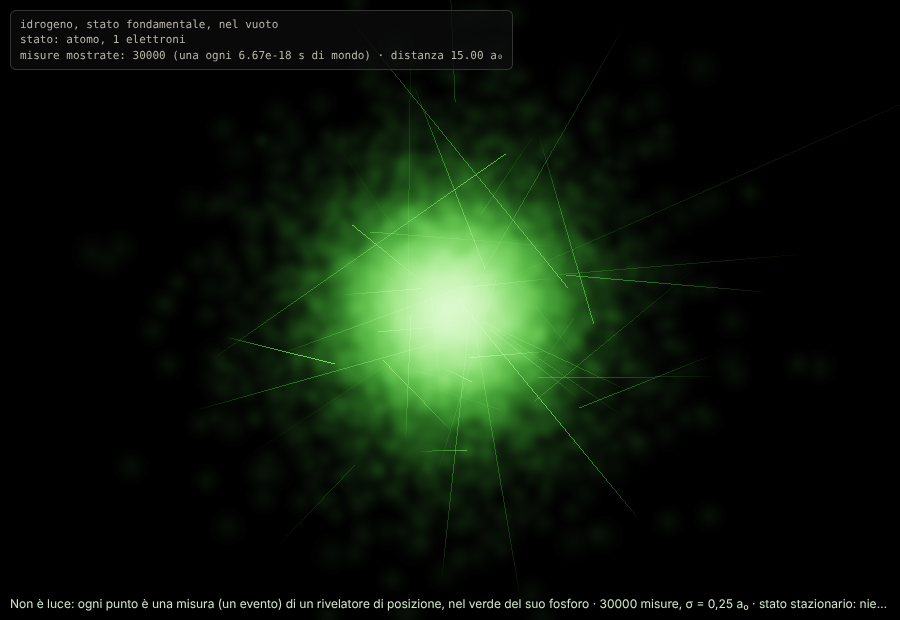
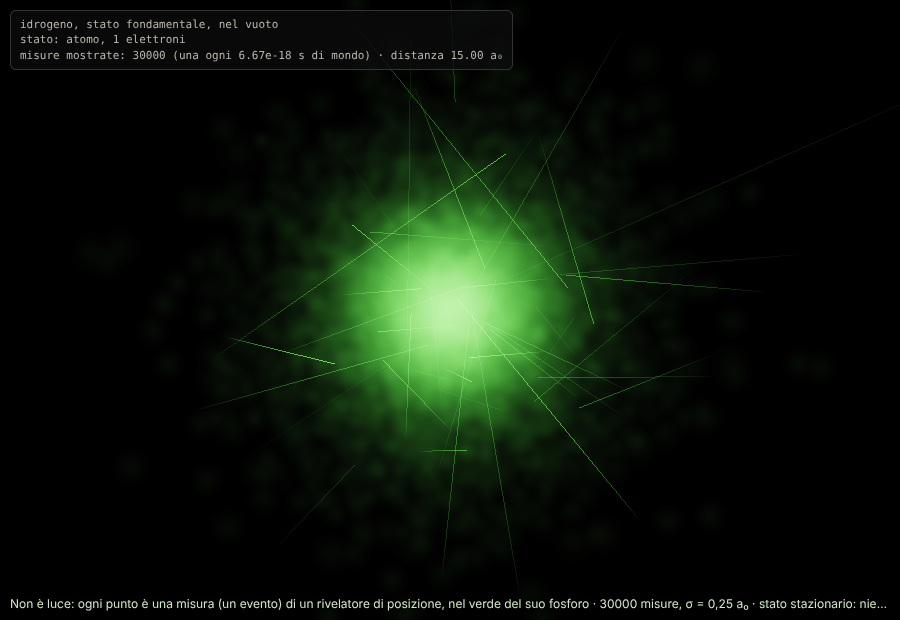
Istantanea dei lavori in corso
Claude-Session: https://claude.ai/code/session_01HEgRdxXhYcDZmLQ42e39by

Changed region(s): [[0.3422, 0.2452, 0.6533, 0.7355]]

diff --git a/src/tre/quanti.js b/src/tre/quanti.js
@@ -153,9 +153,9 @@ export function creaQuanti(N, opzioni = {}) {
       const usa = (p, unita) => { gl.useProgram(p.p); gl.uniformMatrix4fv(p.u.u_proj, false, S.proj); gl.uniformMatrix3fv(p.u.u_vista, false, S.vista); gl.uniformMatrix3fv(p.u.u_quadro, false, u9); gl.uniform3f(p.u.u_centro, _v[0] / unita, _v[1] / unita, _v[2] / unita); };
       // gli elettroni (in a₀)
       if (stato.misure > 0) {
-        usa(prg, AU.a0); const rPx = Math.max(6, ((info ? Math.min(info.estensione, 40) : 4) * 0.35 * AU.a0 / d) * S.fuoco), area = Math.PI * rPx * rPx;
+        usa(prg, AU.a0); const rPx = Math.max(6, ((info ? Math.min(info.estensione, 40) : 4) * 0.35 * AU.a0 / d) * S.fuoco), area = Math.min(Math.PI * rPx * rPx, S.W * S.H); // (la luce di tutte le misure non supera quella che riempie lo schermo)
         gl.uniform1f(prg.u.u_k, stato.kNow); gl.uniform1f(prg.u.u_kmin, kmin); gl.uniform1f(prg.u.u_esposizione, esposizione); gl.uniform1f(prg.u.u_fuoco, S.fuoco); gl.uniform1f(prg.u.u_massimo, 96);
-        gl.uniform1f(prg.u.u_luce, (0.6 * area) / Math.max(30, Math.min(stato.misure, esposizione * 3))); gl.uniform1f(prg.u.u_passato, 1); gl.uniform1f(prg.u.u_sigE, Math.max(O.sigma, 0.02)); gl.uniform4f(prg.u.u_sig, 0.5, 0.06, 0, 0);
+        gl.uniform1f(prg.u.u_luce, (0.35 * area) / Math.max(30, Math.min(stato.misure, esposizione * 3))); gl.uniform1f(prg.u.u_passato, 1); gl.uniform1f(prg.u.u_sigE, Math.max(O.sigma, 0.02)); gl.uniform4f(prg.u.u_sig, 0.5, 0.06, 0, 0);
         gl.bindVertexArray(vao); gl.drawArrays(gl.POINTS, 0, K);
         if (nScie) { usa(prgS, AU.a0); gl.bindVertexArray(vaoS); gl.drawArrays(gl.LINES, 0, 2 * nScie); }
       }

diff --git a/research_notes/Scala quantistica/note.md b/research_notes/Scala quantistica/note.md
@@ -1,0 +1,56 @@
+# La scala quantistica: che cosa si sa di «com'è», e come la si rende visibile dalle misure
+
+Marche: **[V]** letto ora (novembre 2026), **[R]** ricordato (da controllare se serve un numero fine). Per ognuna: che
+cosa ne prende il modello (`src/camera/quanti.js`, `src/tre/quanti.js`).
+
+## Che cosa vuol dire «vedere» sotto l'atomo
+- **Stodolna et al. 2013**, *Hydrogen Atoms under Magnification: Direct Observation of the Nodal Structure of Stark
+  States*, PRL 110, 213001 [V] (copia accettata dell'autore: physics.purdue.edu/~robichf/papers/prl110.213001.pdf).
+  Fascio di idrogeno da fotodissociazione di H₂S; eccitazione a due fotoni (243 nm) agli stati n = 2, ionizzazione
+  con un secondo laser (365–367 nm, 8 ns) in un campo di 808 V/cm; gli elettroni lenti finiscono su piastre a
+  microcanali + schermo al fosforo + CCD, con una lente elettrostatica che ingrandisce l'immagine di circa 10×. Si vede
+  un numero di frange scure uguale al numero quantico parabolico n₁: la struttura dei nodi della funzione d'onda.
+  L'immagine è un **accumulo di elettroni singoli**, uno per atomo.
+  → Il modello rende la scala così: ogni punto è un evento di misura (regola 3), tirato da |ψ|² (regola di Born),
+  su un atomo preparato uguale; la nuvola emerge dall'accumulo; il colore è il verde del fosforo dello schermo
+  (luce dello strumento, non dell'atomo). Riga a schermo: «Non è luce…».
+- **Gross, Mohn, Moll, Liljeroth & Meyer 2009**, Science 325, 1110 (pentacene con punta a CO, AFM); **Gross et al.
+  2012**, Science 337, 1326 (ordine dei legami) [R]. STM/AFM vedono la densità (o la sua derivata) vicino alla
+  superficie, non un orbitale «libero». → Dichiarato nello stato sperimentale di Hartree-Fock (STATO).
+- **Densità elettronica per diffrazione X** [R]: le «densità di deformazione» dei legami nei cristalli. → La densità
+  di una molecola del modello viene da Hartree-Fock-Roothaan STO-3G (Hehre, Stewart & Pople 1969 [R]); riscontri:
+  H₂ −1,11671 Eₕ (Szabo & Ostlund [R]: −1,1167), H₂O alla geometria di Crawford −74,9420800 Eₕ (pubblicato
+  −74,942079928 [R]: torna all'ottava cifra), densità a metà del legame di H₂ 0,256 e/a₀³ (0,2728 quasi al limite HF,
+  Bader [R]: −6%, la base minima).
+
+## Indeterminazione e misura
+- **Kennard 1927** Δx·Δp ≥ ħ/2 [R]; **Arthurs & Kelly 1965** (misura congiunta: ≥ ħ) [R]; misura non nitida come
+  operatore di Kraus gaussiano (Busch, Lahti & Mittelstaedt) [R]. → La finestra σ dello strumento; l'impulso dopo la
+  misura tirato dalla FFT dello stato ridotto. Riscontri sui campioni: gaussiano 0,510 ħ (½ ħ: l'uguaglianza), 1s 0,587 (esatto 0,577),
+  coppia (x₀, p) 1,02 ħ a σ = σ₀ (teoria 1).
+- **Zurek 2003**, *Decoherence, einselection, and the quantum origins of the classical*, RMP 75, 715
+  (arXiv:quant-ph/0105127) [V]: l'ambiente sorveglia certi osservabili e distrugge l'interferenza tra i loro stati
+  «puntatore»; la misura diventa correlazione classica. **Joos & Zeh 1985**, Z. Phys. B 59, 223 [R]; formule di
+  Schlosshauer 2007 [R] (Λ per urti di molecole e per fotoni termici). → `decoerenza`: nell'acqua a 25 °C una
+  sovrapposizione 1s+2p si perde in ~0,27 ps (ogni urto distingue), nel vuoto coi fotoni a 300 K mai prima
+  dell'emissione (1,6 ns). La riga a schermo dice se si vede interferire o se è già un insieme di esiti.
+- **Effetto Zeno**: Itano, Heinzen, Bollinger & Wineland 1990, PRA 41, 2295 [R]. → `misureInFila` con la misura
+  «è ancora nello stato iniziale?» e l'evoluzione di Schrödinger tra le misure: 1, 3, 10, 30 misure in 4 u.a. →
+  0,077 / 0,21 / 0,54 / 0,79 (formula 0,085 / 0,18 / 0,54 / 0,81).
+- Moto degli elettroni ad attosecondi (Goulielmakis et al. 2010, Nature 466, 739) [R]; vita del 2p 1,596 ns,
+  A = 6,2649·10⁸/s [R] → calcolato dal dipolo: 6,268·10⁸/s.
+
+## Nucleo e nucleone
+- Raggi di carica: **Angeli & Marinova 2013**, ADNDT 99, 69 [R] (tabella in `RAGGI_CARICA`); forme di De Vries,
+  De Jager & De Vries 1987 [R]. Diffusività ~0,52 fm [R]. Riscontro: il Fermi a due parametri del piombo esce con
+  c = 6,58 fm (misurato ~6,62 [R]); 1,2·A^(1/3) torna per Fe e Pb, non per i nuclei leggeri (NON TORNA, stampato).
+- Protone: **raggio 0,84087 fm** dall'idrogeno muonico (Antognini et al. 2013 [R]), CODATA 2018 0,8414 fm [R]. Fattori
+  di forma: **Kelly 2004**, PRC 70, 068202 [R] (parametri non riletti ora: [R]); Galster 1971
+  per il neutrone [R]. Il raggio di Kelly (0,862 fm) è quello della diffusione di elettroni precedente: è il «problema
+  del raggio del protone» (NON TORNA, stampato). La densità 3D dal fattore di forma vale nel riferimento di Breit
+  (Miller 2007 [R]).
+- Partoni: le distribuzioni partoniche (HERA) danno frazioni d'impulso, non posizioni; qui solo i tre quark di
+  valenza, con le densità u e d dalla simmetria di isospin (Cates et al. 2011 per la separazione dei sapori [R]).
+- **Leinweber 2000**, *Visualizations of the QCD Vacuum*, hep-lat/0004025 [V per l'abstract]: densità d'azione e di
+  carica topologica su un reticolo 24³×36, isosuperfici e resa di volume, istantoni che si annichilano. → Non
+  simulato (dichiarato): il vuoto tra i quark resta nero.
